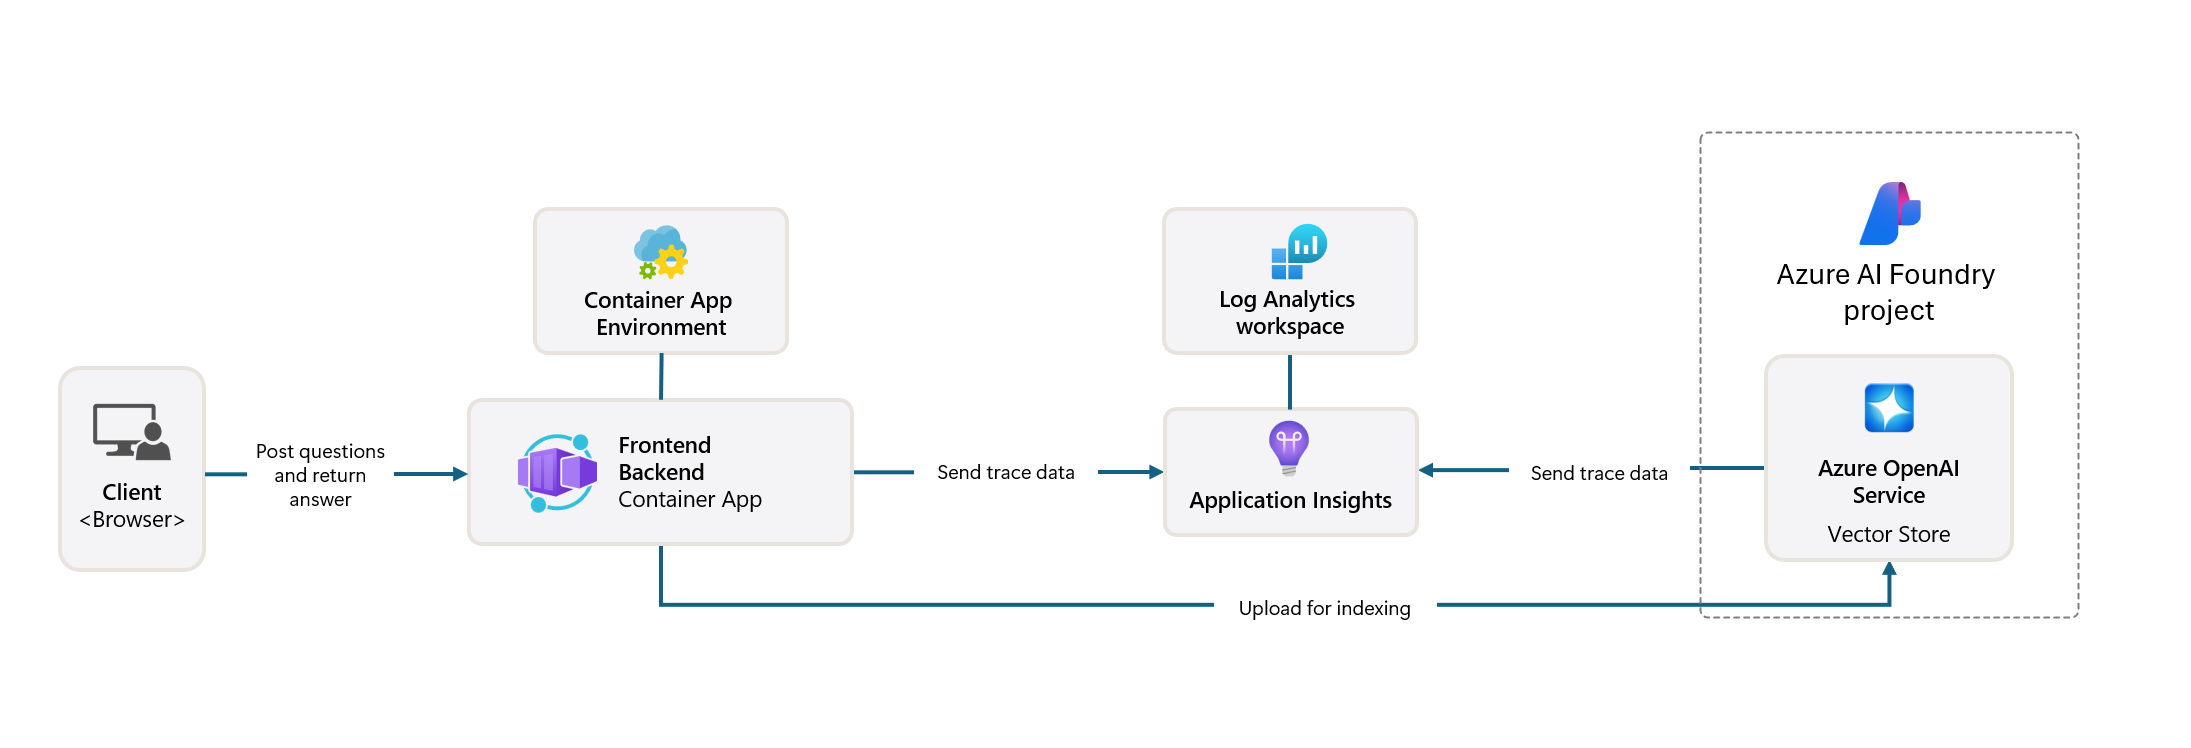
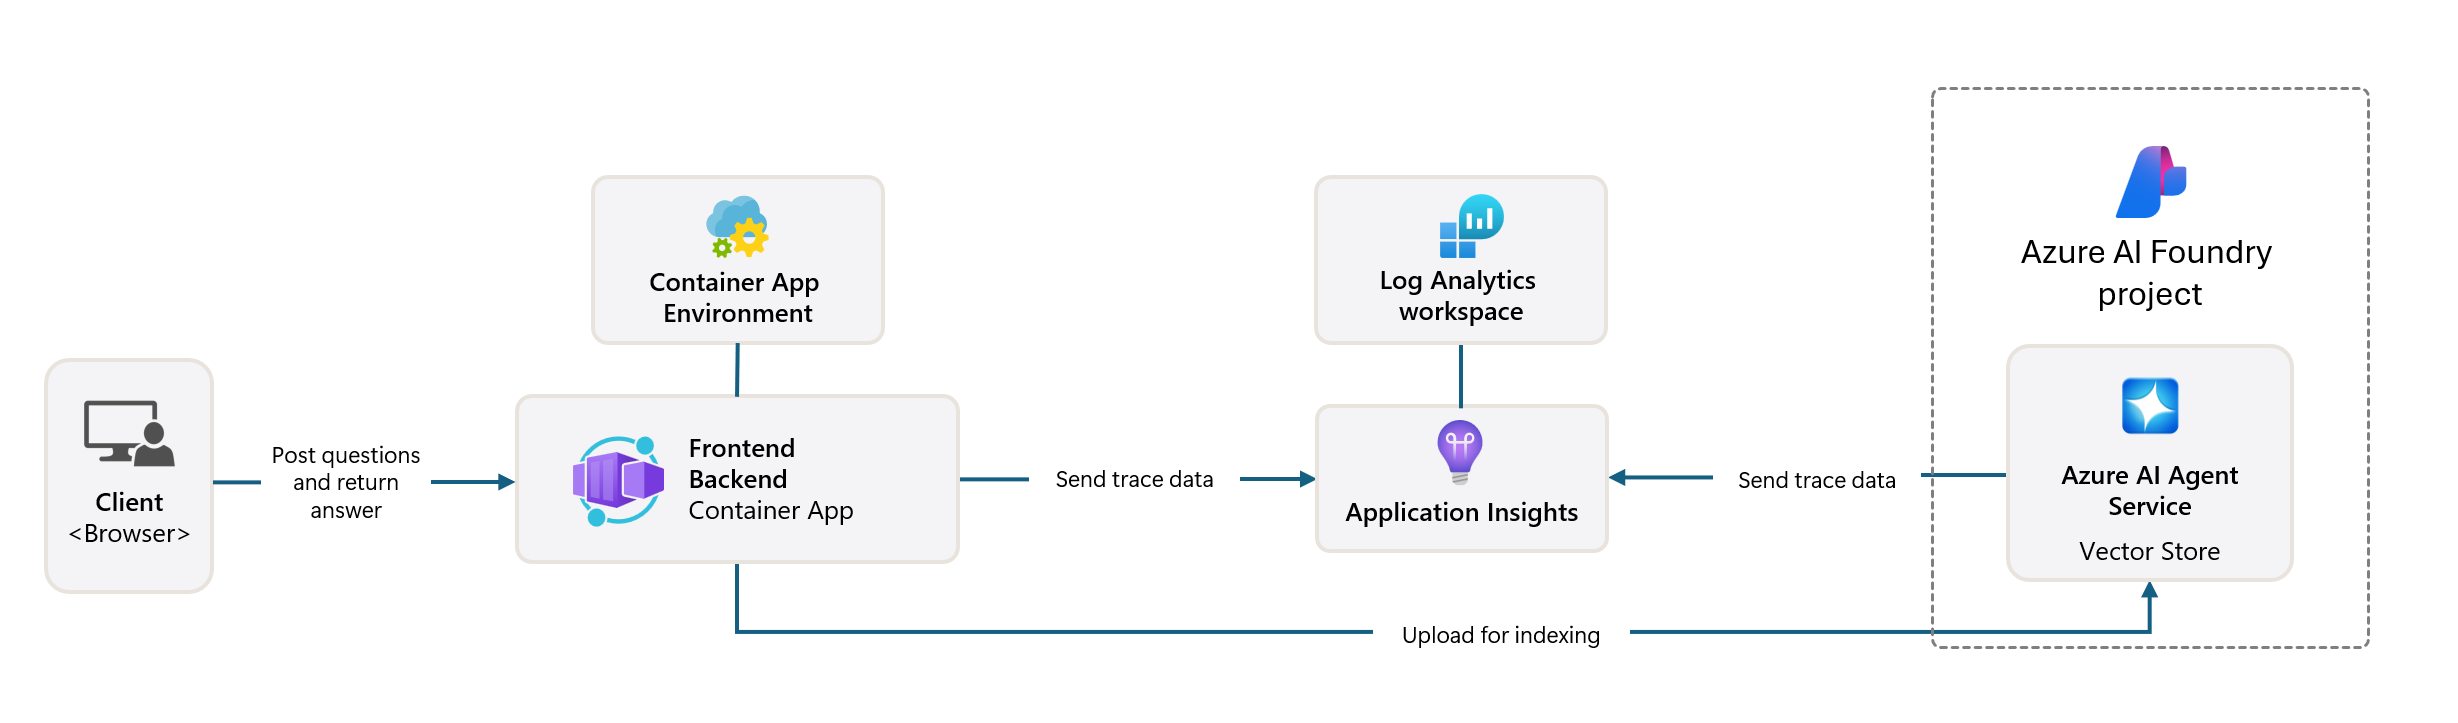
update

diff --git a/src/api/templates/index.html b/src/api/templates/index.html
@@ -4,7 +4,7 @@
     <meta charset="utf-8">
     <meta name="viewport" content="width=device-width, initial-scale=1">
     <meta name="description" content="">
-    <title>Azure AI Agents Demo (React Version)</title>
+    <title>Get Started with AI Agents</title>
     <link href="/static/react/assets/main-react-app.css " rel="stylesheet" type="text/css">
 </head>
 <body style="margin: 0;">

diff --git a/evals/evaluate.py b/evals/evaluate.py
@@ -33,19 +33,20 @@ def run_evaluation():
     agent_name = os.environ.get("AZURE_AI_AGENT_NAME")
     agent_id = os.environ.get("AZURE_EXISTING_AGENT_ID")
 
-    # Initialize the AIProjectClient and related entities
+    # Validate required environment variables
+    if not project_endpoint:
+        raise ValueError("Please set the AZURE_EXISTING_AIPROJECT_ENDPOINT environment variable.")
+
+    if not agent_id and not agent_name:
+        raise ValueError("Please set either AZURE_EXISTING_AGENT_ID or AZURE_AI_AGENT_NAME environment variable.")
+
+    # Initialize the AIProjectClient
     credential = DefaultAzureCredential()
     ai_project = AIProjectClient(
         credential=credential,
         endpoint=project_endpoint,
         api_version = "2025-05-15-preview" # Evaluations yet not supported on stable (api_version="2025-05-01")
     )
-    model_config = {
-        "azure_deployment": deployment_name,
-        "azure_endpoint": model_endpoint,
-        "api_version": "",
-    }
-    thread_data_converter = AIAgentConverter(ai_project)
 
     # Look up the agent by name if agent Id is not provided
     if not agent_id and agent_name:
@@ -56,14 +57,26 @@ def run_evaluation():
                 
     if not agent_id:
         raise ValueError("Agent ID not found. Please provide a valid agent ID or name.") 
-    
-    agent = ai_project.agents.get_agent(agent_id)
 
-    # Read data input file 
+    agent = ai_project.agents.get_agent(agent_id)
+    
+    # Use model from agent if not provided    
+    if not deployment_name:        
+        deployment_name = agent.model
+
+    # Setup required evaluation config
+    model_config = {
+        "azure_deployment": deployment_name,
+        "azure_endpoint": model_endpoint,
+        "api_version": "",
+    }
+    thread_data_converter = AIAgentConverter(ai_project)
+
+    # Read test queries from input file 
     with open(eval_queries_path, "r", encoding="utf-8") as f:
         test_data = json.load(f)
     
-    # Execute the test data against the agent and prepare the evaluation input
+    # Execute the test queries against the agent and prepare the evaluation input
     with open(eval_input_path, "w", encoding="utf-8") as f:        
 
         for row in test_data:
@@ -85,7 +98,7 @@ def run_evaluation():
             if run.status != RunStatus.COMPLETED:
                 raise ValueError(run.last_error or "Run failed to complete")
 
-            metrics = {
+            operational_metrics = {
                 "server-run-duration-in-seconds": (
                     run.completed_at - run.created_at
                 ).total_seconds(),
@@ -97,15 +110,14 @@ def run_evaluation():
 
             # Add thread data + operational metrics to the evaluation input
             evaluation_data = thread_data_converter.prepare_evaluation_data(thread_ids=thread.id)
-
             eval_item = evaluation_data[0]
-            eval_item["metrics"] = metrics
+            eval_item["metrics"] = operational_metrics
             f.write(json.dumps(eval_item) + "\n")   
         
 
     # Now, run a sample set of evaluators using the evaluation input
     # See https://learn.microsoft.com/en-us/azure/ai-foundry/how-to/develop/agent-evaluate-sdk
-    # for the full list of evaluators availalbe
+    # for the full list of evaluators available.
     results = evaluate(
         evaluation_name="evaluation-test",
         data=eval_input_path,
@@ -122,10 +134,9 @@ def run_evaluation():
         azure_ai_project=project_endpoint, # if you want results uploaded to AI Foundry
     )
 
-    # Print the evaluation results
+    # Format and print the evaluation results
     print_eval_results(results, eval_input_path, eval_output_path)
-    
-    return results
+
 
 class OperationalMetricsEvaluator:
     """Propagate operational metrics to the final evaluation results"""

diff --git a/README.md b/README.md
@@ -8,16 +8,16 @@ The agent leverages the Azure AI Agent service and utilizes file search for know
 
 <div style="text-align:center;">
 
-[**SOLUTION OVERVIEW**](#solution-overview) \| [**GETTING STARTED**](#getting-started) \| [**CONFIGURE YOUR ENVIRONMENT**](#configure-your-environment)  \| [**DEPLOYMENT**](#deployment) \| [**GUIDANCE**](#guidance) \| [**RESOURCE CLEAN-UP**](#resource-clean-up) \| [**AGENT EVALUATION**](#agent-evaluation) \| [**TROUBLESHOOTING**](#troubleshooting) 
+[**SOLUTION OVERVIEW**](#solution-overview) \| [**GETTING STARTED**](#getting-started) \| [**CONFIGURE YOUR ENVIRONMENT**](#configure-your-environment)  \| [**DEPLOYMENT**](#deployment) \| [**GUIDANCE**](#guidance) \| [**RESOURCE CLEAN-UP**](#resource-clean-up) \| [**TRACING AND MONITORING**](#tracing-and-monitoring) \| [**AGENT EVALUATION**](#agent-evaluation) \| [**TROUBLESHOOTING**](#troubleshooting) 
 
 </div>
 
 
 ## Solution Overview
 
-This solution deploys a web-based chat application with an AI agent running in Azure Container Apps. 
+This solution deploys a web-based chat application with an AI agent running in Azure Container App. 
 
-This solution creates an Azure AI Foundry project and Azure AI services. More details about the resources can be found in the [resources](#resources) documentation. There are options to enable Retrieval-Augmented Generation (RAG) and use logging, tracing, and monitoring. 
+This solution creates an Azure AI Foundry project and Azure AI services. More details about the resources can be found in the [resources](#resources) documentation. There are options to enable logging, tracing, and monitoring. 
 
 Instructions are provided for deployment through GitHub Codespaces, VS Code Dev Containers, and your local development environment.
 
@@ -27,11 +27,11 @@ Instructions are provided for deployment through GitHub Codespaces, VS Code Dev 
 
 ![Architecture diagram showing that user input is provided to the Azure Container App, which contains the app code. With user identity and resource access through managed identity, the input is used to form a response. The input and the Azure monitor are able to use the Azure resources deployed in the solution: Application Insights, Azure AI Foundry Project, Azure AI Services, Storage account, Azure Container App, and Log Analytics Workspace.](docs/architecture.png)
 
-The app code runs in Azure Container apps to process the user input and generate a response to the user. It leverages Azure AI projects and Azure AI services, including the model and agent.
+The app code runs in Azure Container App to process the user input and generate a response to the user. It leverages Azure AI projects and Azure AI services, including the model and agent.
 
 
 ### Key Features
-- **Agent-Based Knowledge Retrieval**<br/>
+- **Knowledge Retrieval**<br/>
 The AI agent uses file search to retrieve knowledge from uploaded files.
 
 - **Customizable AI Model Deployment**<br/>
@@ -43,9 +43,6 @@ Integrated monitoring capabilities, including Azure Monitor and Application Insi
 - **Flexible Deployment Options**<br/>
 The solution supports deployment through GitHub Codespaces, VS Code Dev Containers, or local environments, providing flexibility for different development workflows.
 
-- **Retrieval-Augmented Generation (RAG)**<br/>
-The solution includes an option to enable RAG, combining knowledge retrieval with AI-generated responses to enhance the quality and relevance of outputs.
-
 - **Agent Evaluation**<br/>
 This solution demonstrates how you can evaluate your agent's performance and quality during local development and incorporate it into monitoring and CI/CD workflow.
 
@@ -54,7 +51,7 @@ This solution demonstrates how you can evaluate your agent's performance and qua
 
 Here is a screenshot showing the chatting web application with requests and responses between the system and the user:
 
-![Screenshot of chatting web application showing requests and responses between assistants and the user.](docs/webapp_screenshot.png)
+![Screenshot of chatting web application showing requests and responses between agent and the user.](docs/webapp_screenshot.png)
 
 
 ## Getting Started
@@ -125,7 +122,8 @@ azd env set AZURE_AI_AGENT_MODEL_NAME <MODEL_NAME>
 azd env set AZURE_AI_AGENT_MODEL_VERSION <MODEL_VERSION>
 ```
 
-#### Tracing and Monitoring
+#### How to configure tracing and azure monitor
+
 To enable tracing for AI Agent to Azure Monitor, set the following environment variable:
 ```shell
 azd env set ENABLE_AZURE_MONITOR_TRACING true
@@ -135,6 +133,8 @@ To enable message contents to be included in the traces, set the following envir
 ```shell
 azd env set AZURE_TRACING_GEN_AI_CONTENT_RECORDING_ENABLED true
 ```
+
+You can view the App Insights tracing in Azure AI Foundry. Select your project on the Azure AI Foundry page and then click 'Tracing'.
 
 #### Quota Recommendations
 
@@ -307,11 +307,57 @@ Once you've opened the project in [Codespaces](#github-codespaces) or in [Dev Co
 
 6. (Optional) Now that your app has deployed, you can view your resources in the Azure Portal and your deployments in Azure AI Foundry. 
     * In the [Azure Portal](https://portal.azure.com/), navigate to your environment's resource group. The name will be `rg-[your environment name]`. Here, you should see your container app, storage account, and all of the other [resources](#resources) that are created in the deployment.
-    * In the [Azure AI Foundry Portal](https://ai.azure.com/), select your project. If you navigate to the Assistants tab, you should be able to view your new assistant, named `agent-template-assistant`. If you navigate to the Models and Endpoints tab, you should see your AI Services connection with your model deployments. 
+    * In the [Azure AI Foundry Portal](https://ai.azure.com/), select your project. If you navigate to the Agents tab, you should be able to view your new agent, named `agent-template-assistant`. If you navigate to the Models and Endpoints tab, you should see your AI Services connection with your model deployments. 
 
 7. (Optional) You can use a local development server to test app changes locally. To do so, follow the steps in [local deployment server](#local-development-server) after your app is deployed.
 
 8. (Optional) Follow this [tutorial](https://learn.microsoft.com/en-us/azure/container-registry/container-registry-tutorial-quick-task) to build your changes into a Docker image and deploy to Azure Container App.
+
+## Tracing and Monitoring
+
+You can view console logs in Azure portal. You can get the link to the resource group with the azd tool:
+```shell
+azd show
+```
+
+Or if you want to navigate from the Azure portal main page, select your resource group from the 'Recent' list, or by clicking the 'Resource groups' and searching your resource group there.
+
+After accessing you resource group in Azure portal, choose your container app from the list of resources. Then open 'Monitoring' and 'Log Stream'. Choose the 'Application' radio button to view application logs. You can choose between real-time and historical using the corresponding radio buttons. Note that it may take some time for the historical view to be updated with the latest logs.
+
+You can view the App Insights tracing in Azure AI Foundry. Select your project on the Azure AI Foundry page and then click 'Tracing'.
+
+
+## Agent Evaluation
+AI Foundry offers a number of [built-in evaluators](https://learn.microsoft.com/en-us/azure/ai-foundry/how-to/develop/agent-evaluate-sdk) to measure the quality, efficiency, risk and safety of your agents. For example, intent resolution, tool call accuracy, and task adherence evaluators are targeted to assess the performance of agent workflow, while content safety evaluator checks for inappropriate content in the responses such as violence or hate.
+
+ In this template, we show how these evaluations can be performed during different phases of your development cycle.
+- **Local development**: You can use this [local evaluation script](./evals/evaluate.py) to get performance and evaluation metrics based on a set of [test queries](./evals/eval-queries.json) for a sample set of built-in evaluators. 
+
+  The script reads the following environment variables: 
+    - `AZURE_EXISTING_AIPROJECT_ENDPOINT`: AI Project endpoint 
+    - `AZURE_EXISTING_AGENT_ID`: AI Agent Id, with fallback logic to look up agent Id by name `AZURE_AI_AGENT_NAME`
+    - `AZURE_AI_AGENT_DEPLOYMENT_NAME`: Deployment model used by the AI-assisted evaluators, with fallback logic to your agent model
+  
+  To install required packages and run the script:  
+  ```shell
+  python -m pip install -r src/requirements.txt
+  python -m pip install azure-ai-evaluation
+
+  python evals/evaluate.py
+  ```
+- **Monitoring**: When tracing is enabled, the [application code](./src/api/routes.py) sends an asynchronous evaluation request after processing a thread run, allowing continuous monitoring of your agent. You can view results from the AI Foundry Tracing tab.
+    ![Tracing](docs/tracing_eval_screenshot.png)
+    Alternatively, you can go to your Application Insights logs for an interactive experience. Here is an example query to see logs on thread runs and related events.
+    ```kql
+    let thread_run_events = traces
+    | extend thread_run_id = tostring(customDimensions.["gen_ai.thread.run.id"]);
+    dependencies 
+    | extend thread_run_id = tostring(customDimensions.["gen_ai.thread.run.id"])
+    | join kind=leftouter thread_run_events on thread_run_id
+    | where isnotempty(thread_run_id)
+    | project timestamp, thread_run_id, name, success, duration, event_message = message, event_dimensions=customDimensions1
+   ```
+- **Continuous Integration**: You can try the [AI Agent Evaluation GitHub action](https://github.com/microsoft/ai-agent-evals) using the [sample GitHub workflow](./.github/workflows/ai-evaluation.yaml) in your CI/CD pipeline. This GitHub action runs a set of queries against your agent, performs evaluations with evaluators of your choice, and produce a summary report. It also supports a comparison mode with statistical test, allowing you to iterate agent changes on your production environment with confidence. See [documentation](https://github.com/microsoft/ai-agent-evals) for more details.
 
 ## Resource Clean-up
 
@@ -333,30 +379,6 @@ To prevent incurring unnecessary charges, it's important to clean up your Azure 
 
 ⚠ Alternatively, you can delete the resource group directly from the Azure Portal to clean up resources.
 
-
-
-You can view the App Insights tracing in Azure AI Foundry. Select your project on the Azure AI Foundry page and then click 'Tracing'.
-
-## Agent Evaluation
-There are multiple ways for you to evaluate the quality of your agents.
-- **Local development**: You can use this [local evaluation script](./evals/evaluate.py) to see performance and evaluation metrics based on a set of [queries](./evals/eval-queries.json) with built-in evaluators.
-  ```shell
-  pip install azure-ai-evaluation
-  python evals/evaluate.py
-  ```
-- **Monitoring**: When tracing is enabled, the [application code](./src/api/routes.py) sends an asynchronous evaluation request after processing run to AI Foundry, allowing continuous monitoring of your agent quality. You can view results from AI Foundry Tracing tab.
-    ![Tracing](docs/tracing_eval_screenshot.png)
-    Alternatively, you can go to your Application Insights logs for an interactive experience. Here is an example query to see logs on thread runs and related events.
-    ```kql
-    let events = traces
-    | extend thread_run_id = tostring(customDimensions.["gen_ai.thread.run.id"]);
-    dependencies 
-    | extend thread_run_id = tostring(customDimensions.["gen_ai.thread.run.id"])
-    | join kind=leftouter events on thread_run_id
-    | where isnotempty(thread_run_id)
-    | project timestamp, thread_run_id, name, success, duration, event_message = message, event_dimensions=customDimensions1
-   ```
-- **CI/CD**: You can try the [AI Agent Evaluation GitHub action](https://github.com/microsoft/ai-agent-evals) using the [sample GitHub workflow](./.github/workflows/ai-evaluation.yaml). It also supports a comparison mode with statistical test, allowing you to iterate agent changes on your production environment with confidence. For more details, refer to the [documentation](https://github.com/microsoft/ai-agent-evals).
 
 ## Guidance
 
@@ -420,10 +442,9 @@ The template also includes dependent resources:
 #### Agents
 * If your agent is occasionally unresponsive, your model may have reached its rate limit. You can increase its quota by adjusting the bicep configuration or by editing the model in the Azure AI Foundry page for your project's model deployments. 
 * If your agent is crashing, confirm that you are using a model that you have deployed to your project.
-* For easier agents configuration and streamlined integration with an existing assistants library, export the agent from Azure AI Foundry and implement a yaml-based configuration. 
 * This application is designed to serve multiple users on multiple browsers. This application uses cookies to ensure that the same thread is reused for conversations across multiple tabs in the same browser. If the browser is restarted, the old thread will continue to serve the user. However, if the application has a new agent after a server restart or a thread is deleted, a new thread will be created without requiring a browser refresh or signaling to the users. When users submit a message to the web server, the web server will create an agent, thread, and stream back a reply. The response contains `agent_id` and `thread_id` in cookies. As a result, each subsequent message sent to the web server will also contain these IDs. As long as the same agent is being used in the system and the thread can be retrieved in the cookie, the same thread will be used to serve the users.
 * For document handling, use filename-based downloads to avoid storing files in dictionaries.
-* Intermittent errors may arise when retrieving filenames for file IDs, which may be mitigated by using a single worker and fresh threads for each new assistant.
+* Intermittent errors may arise when retrieving filenames for file IDs, which may be mitigated by using a single worker and fresh threads for each new agent.
 * File citation can be enhanced by automatically including filenames to reduce manual steps. 
 
 
